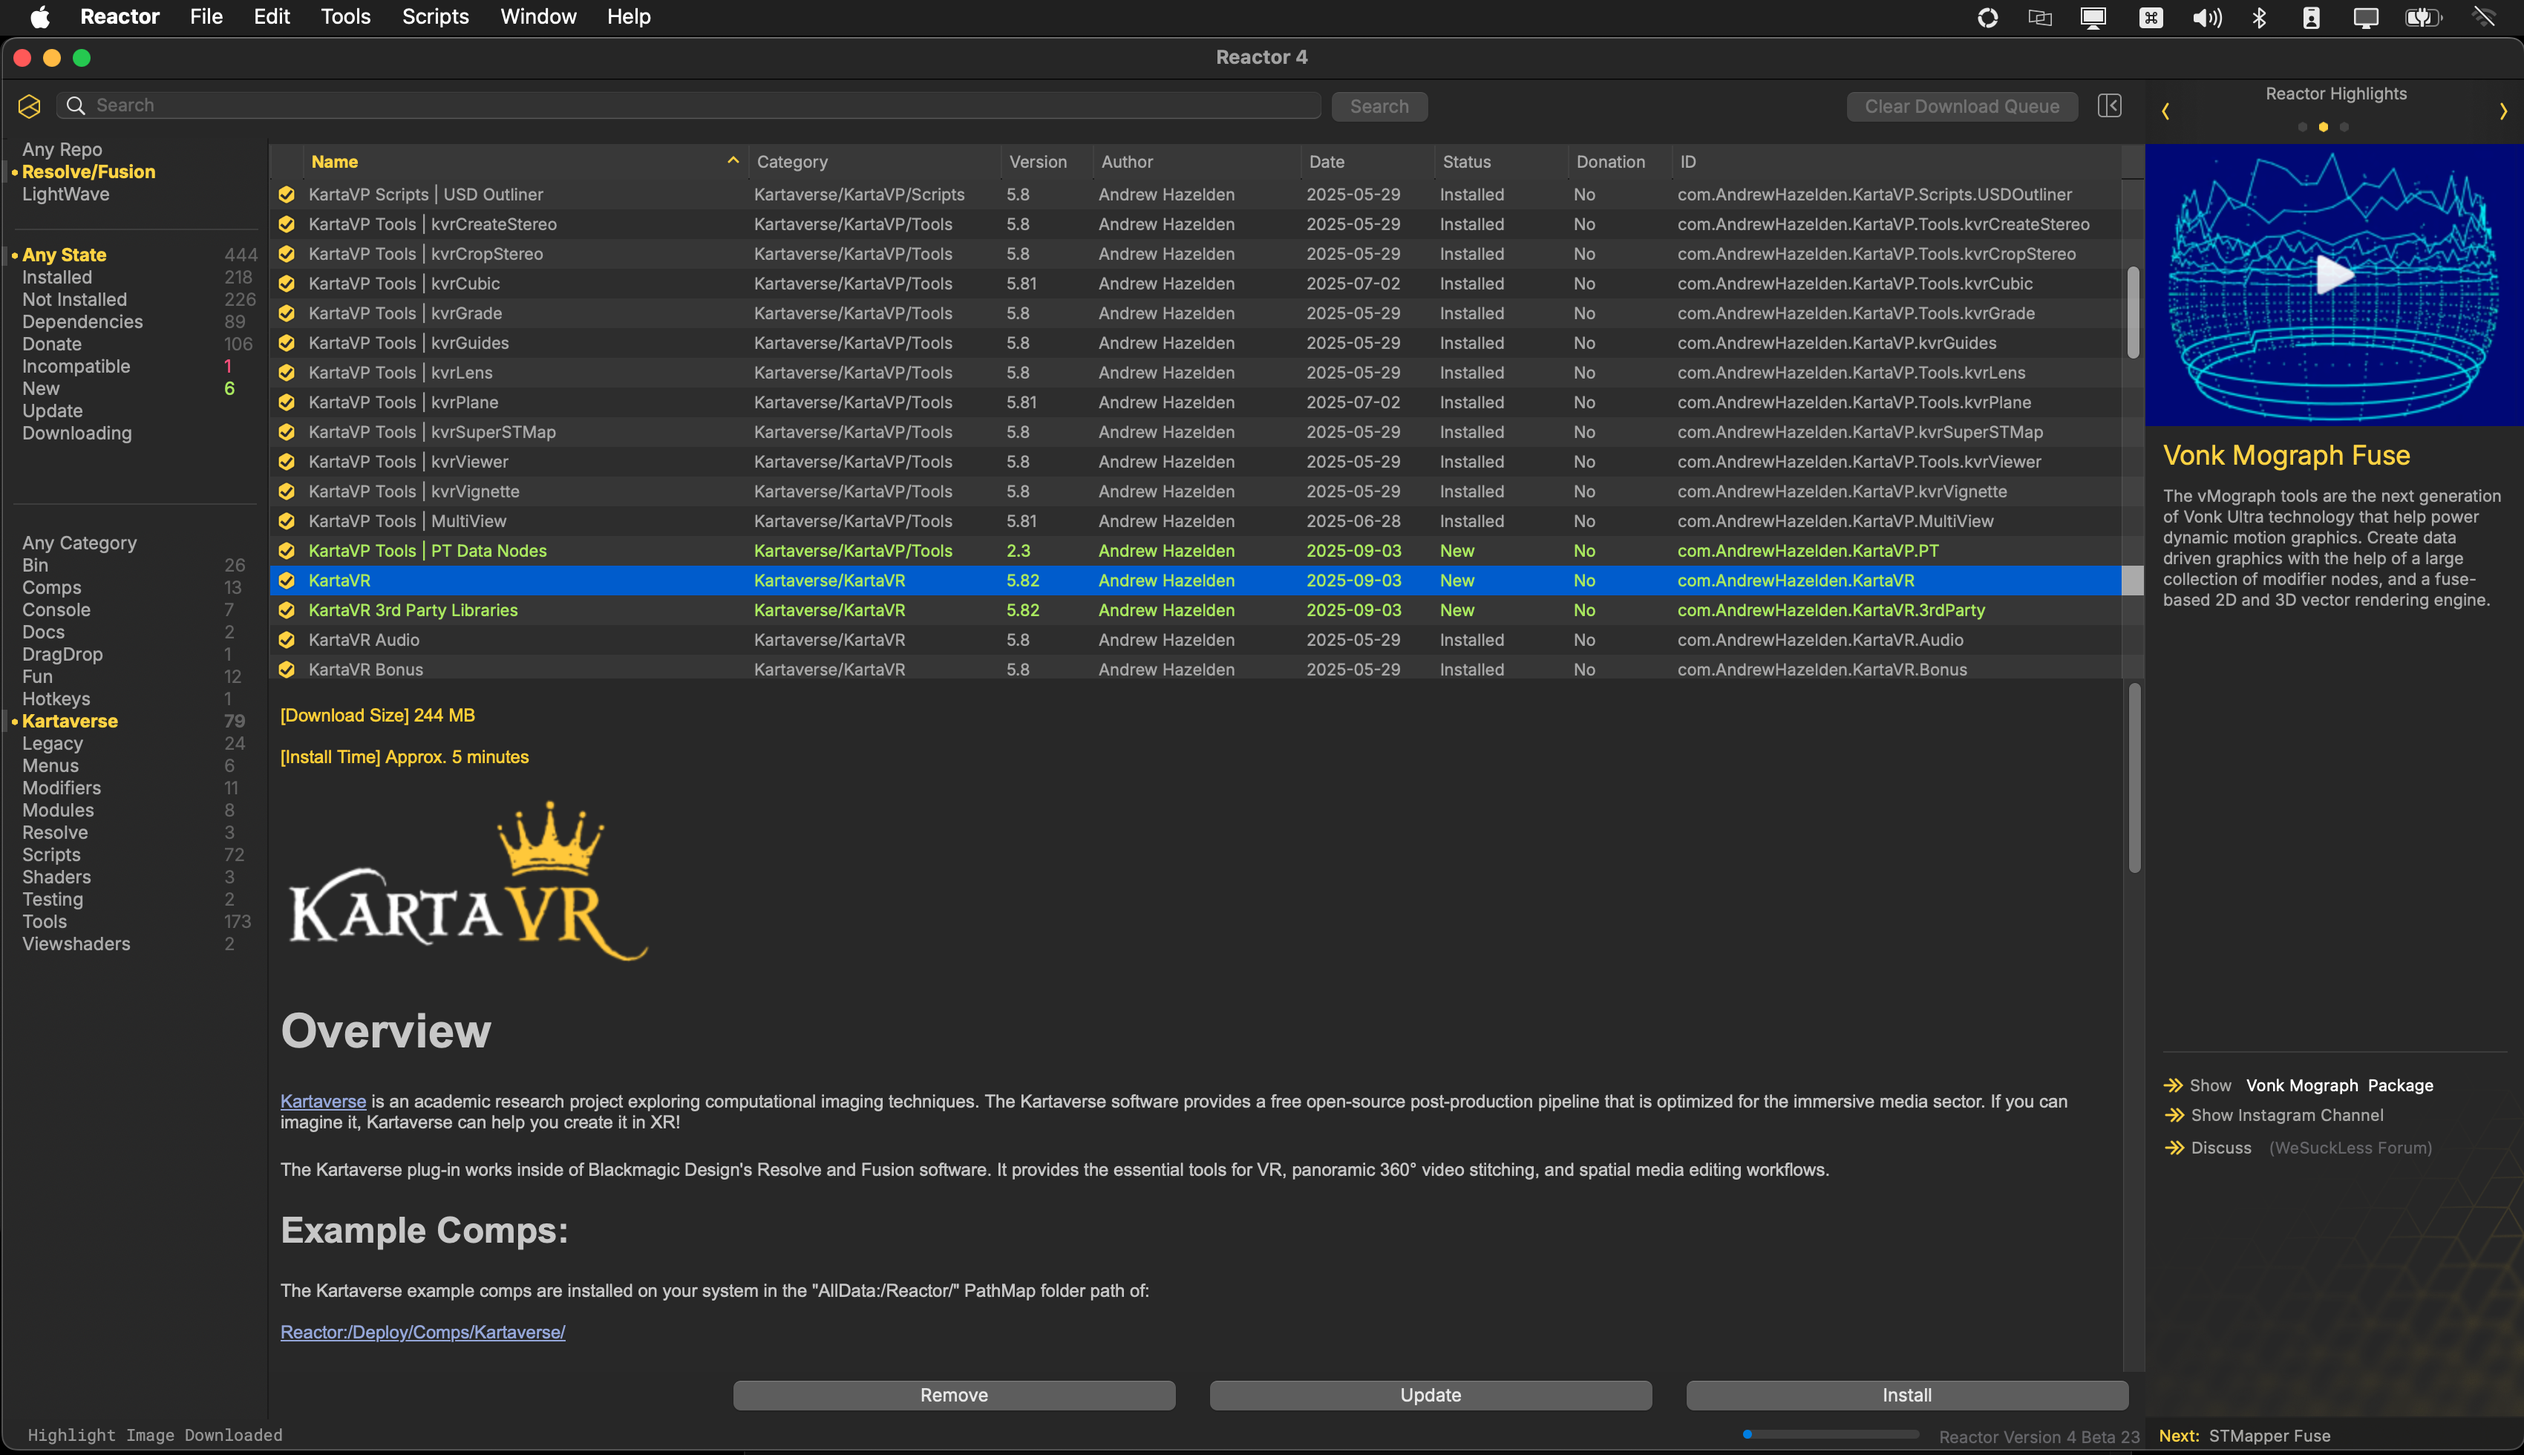
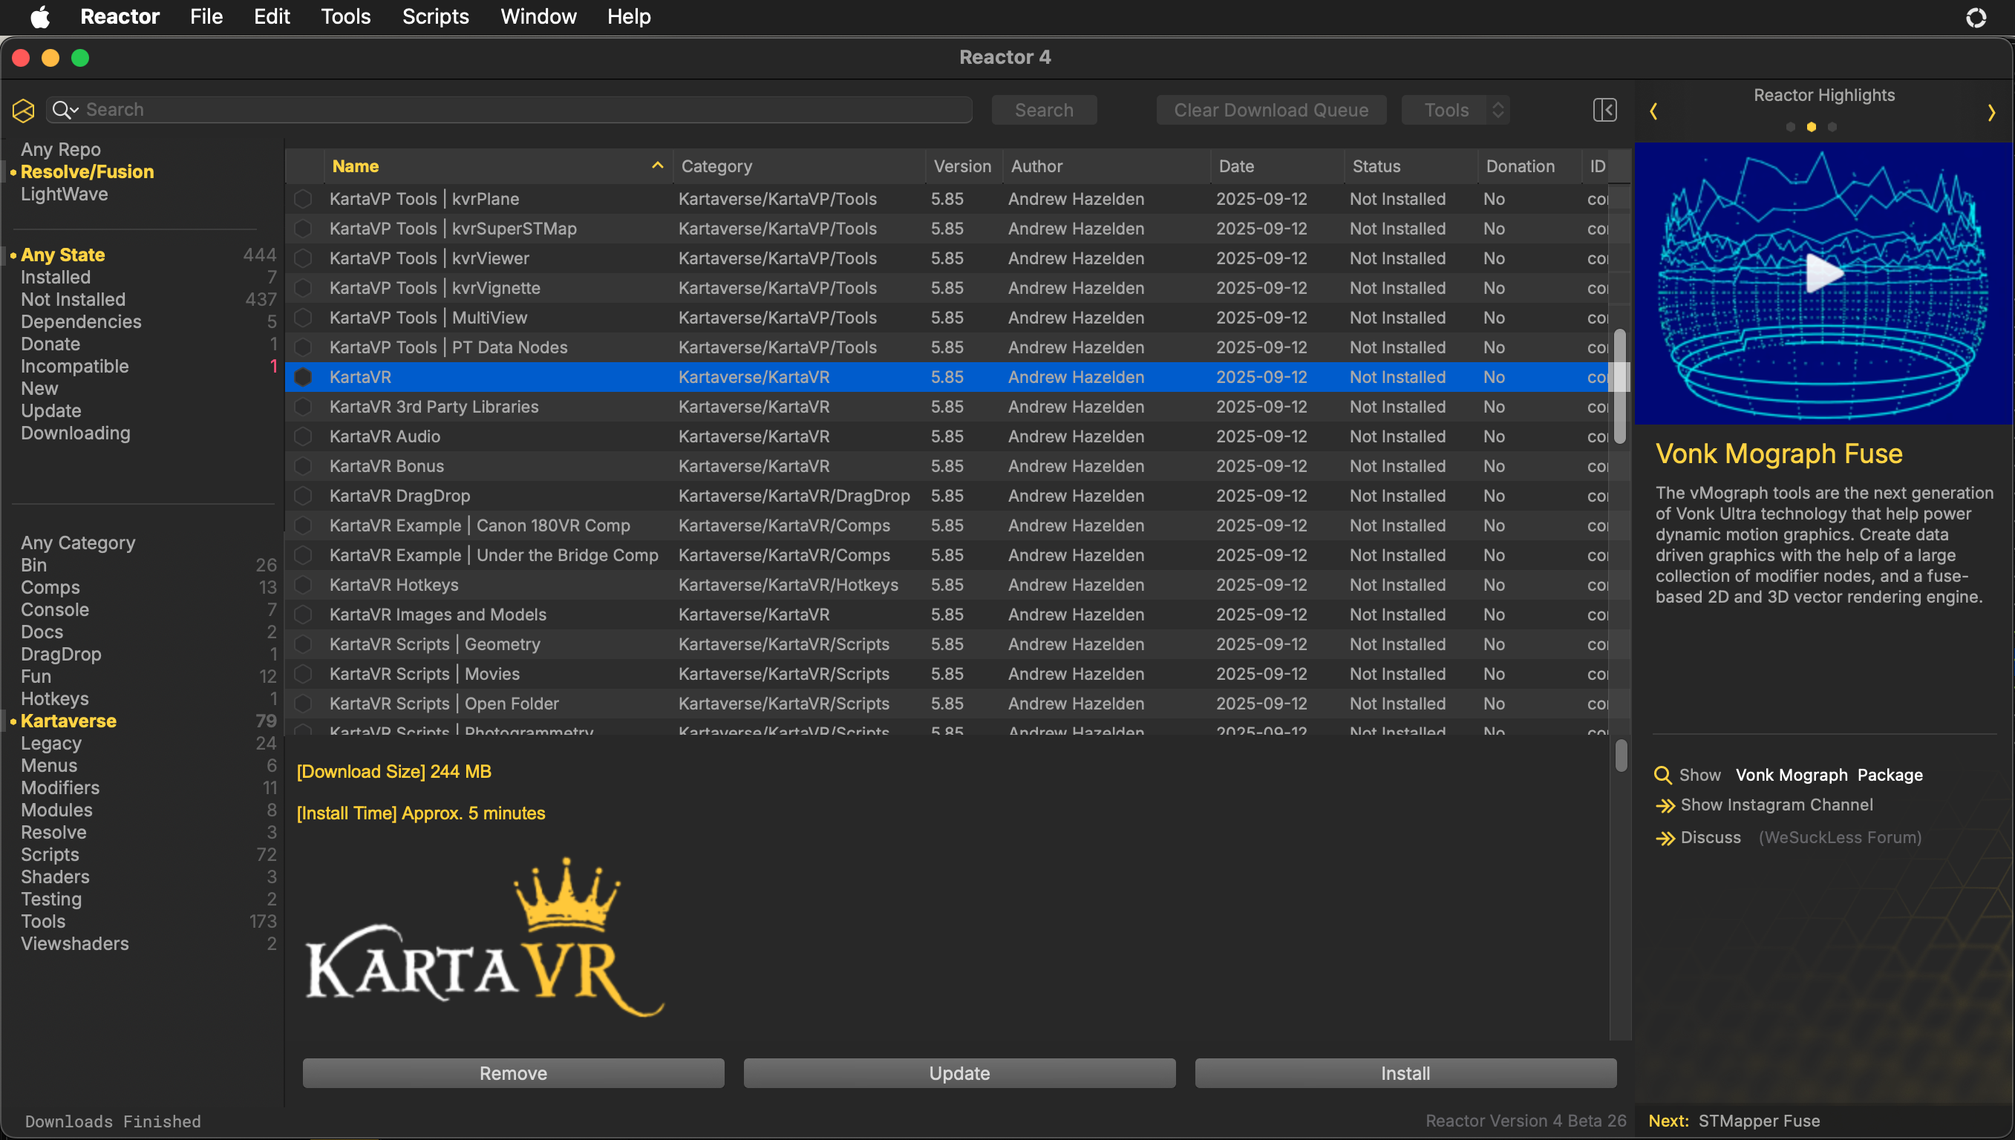
B26

diff --git a/ChangeLog.md b/ChangeLog.md
@@ -1,5 +1,19 @@
 # Reactor Standalone Change Log
 
+## 2025-09-21 Beta 26
+
+Solved a progress bar flickering issue that occurred when a series of small atom packages were downloading and the progress bar control was hidden/shown
+
+The State and Category "item count" numbers are now right-justified.
+
+List panel heading row sort direction "chevrons" have their vertical height positioned in the middle of the cell.
+
+The Search button turns yellow when active (meaning there is text entered in the search text field).
+
+LiveSearch preference saving updated. On macOS, a"Recent Items" list of search keywords can be selected by clicking on the search field magnifying glass.
+
+A "Downloads Finished" message is shown in the info bar when the full list of download queue tasks are completed
+
 ## 2025-09-21 Beta 25 Changes
 
 Added a "Help > Check for Updates..." menu item. It goes to the Reactor Standalone GitHub website's releases page where you can download the latest builds.

diff --git a/README.md b/README.md
@@ -1,6 +1,6 @@
 # Reactor Standalone for Resolve/Fusion
 
-Reactor 4 Beta Build 25 - 2025-09-21  
+Reactor 4 Beta Build 26 - 2025-09-22  
 
 ## Overview
 
